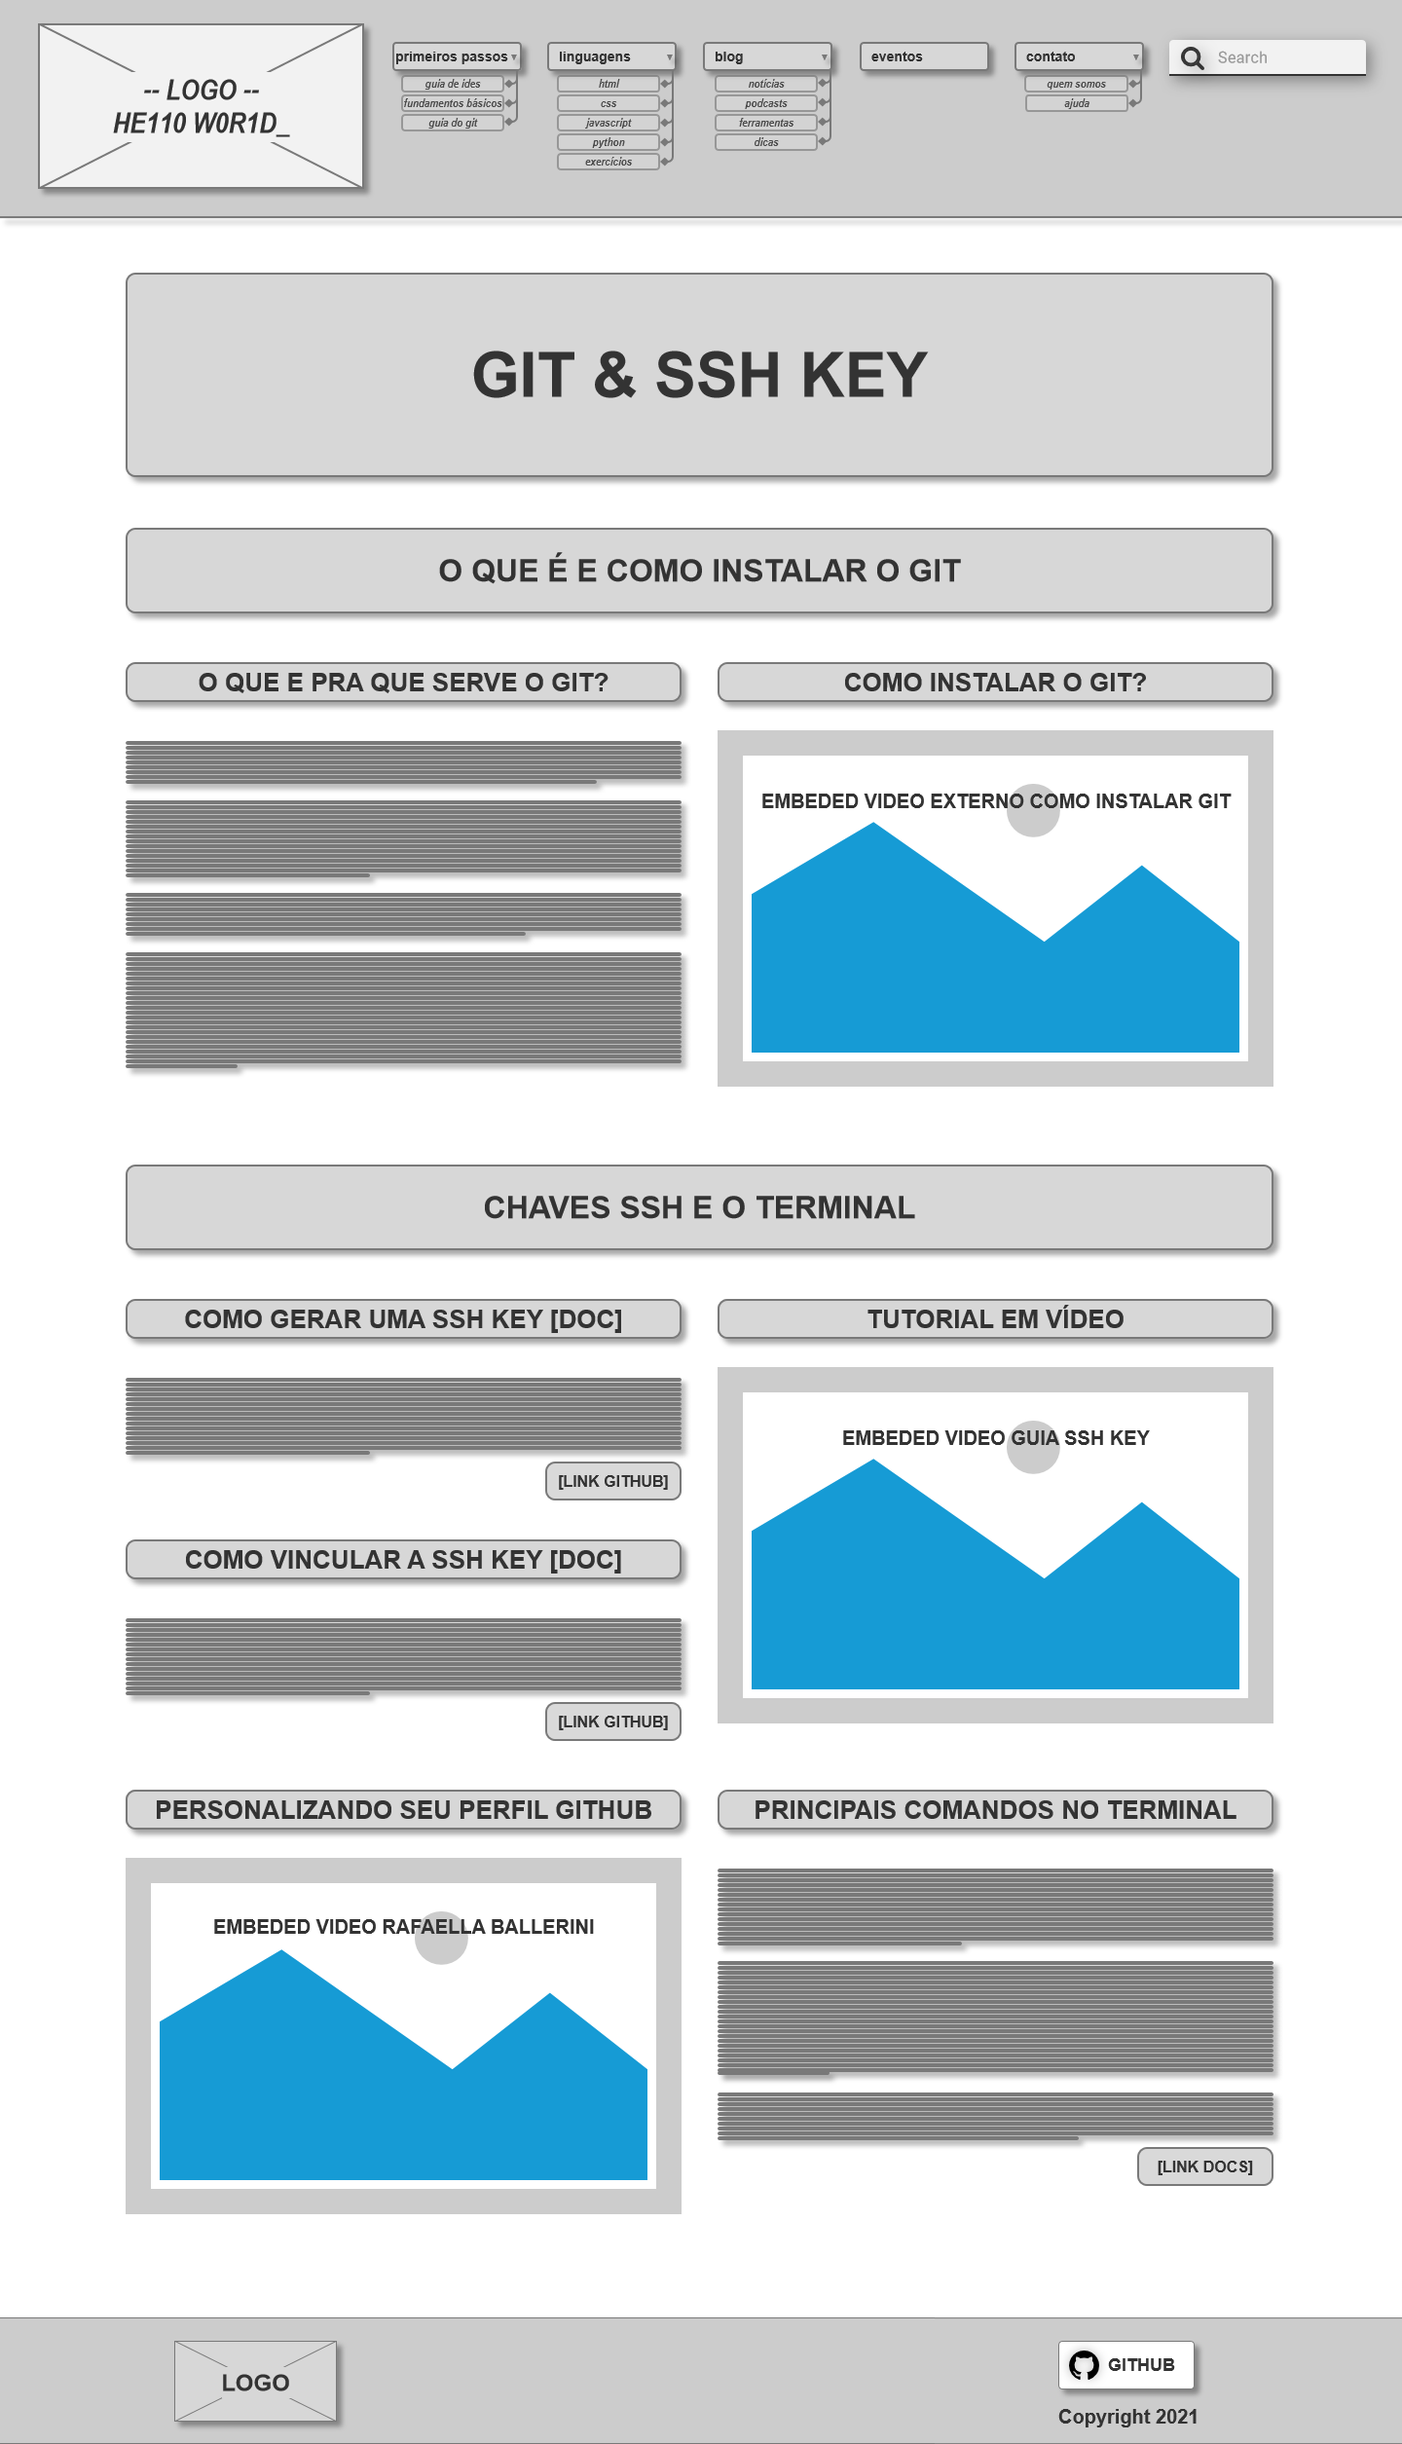
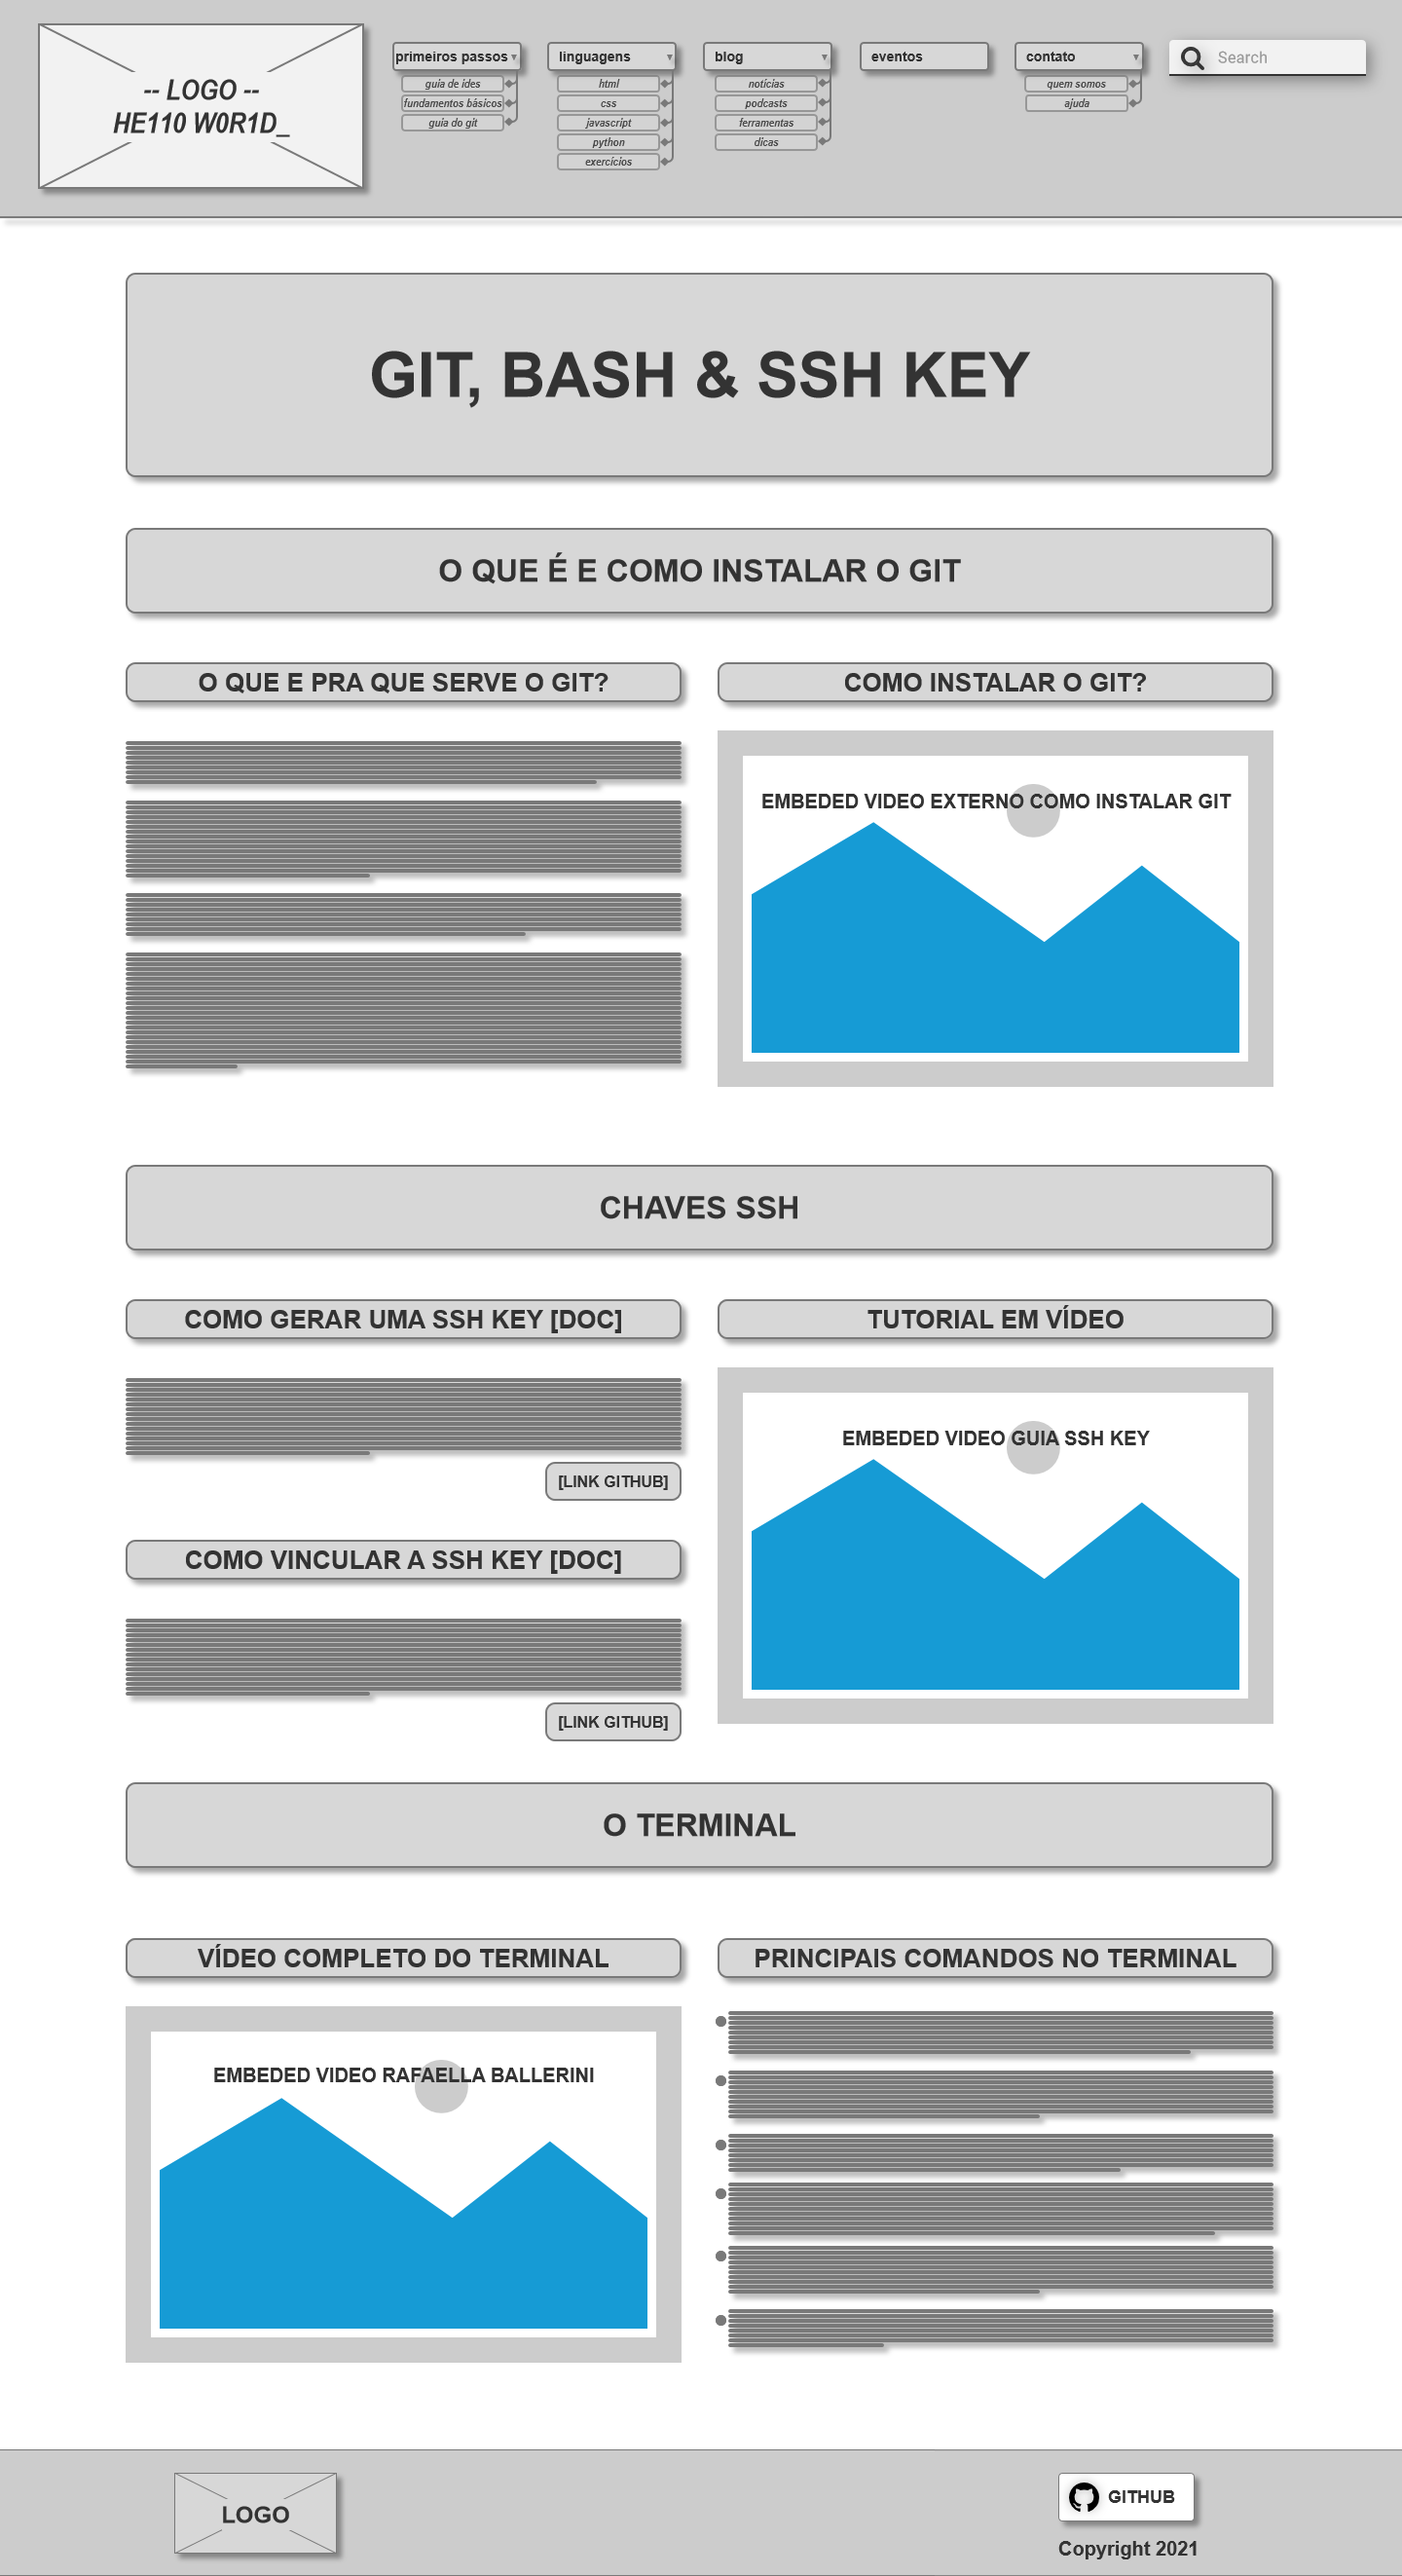
Página guia do GIT adicionada #34

diff --git a/src/guia-do-git.html b/src/guia-do-git.html
@@ -71,7 +71,7 @@
               <a class="dropdown-item"
                  href="#">Guia de IDE</a>
               <a class="dropdown-item"
-                 href="#">Guia do GIT</a>
+                 href="guia-do-git.html">Guia do GIT</a>
               <a class="dropdown-item"
                  href="#">Fundamentos Básicos</a>
             </div>
@@ -154,8 +154,100 @@
 
     <!-- Conteúdo Principal -->
     <div id="conteudo">
-      <div class="container">
 
+      <!-- Título da Página -->
+      <div class="container">
+        <div class="row">
+          <div class="col-md col-sm">
+            <h1>GIT, BASH & CHAVE SSH</h1>
+          </div>
+        </div>
+      </div>
+
+      <!-- Seção -->
+      <div class="container">
+        <div class="row">
+          <div class="col-md col-sm">
+            <h2>O que é e como instalar o git?</h2>
+          </div>
+        </div>
+        <div class="row">
+          <div class="col-md col-sm">
+            <h3>O que é e para que serve o git?</h3>
+            <p>Git é um sistema de controle de versão de arquivos. Através dele podemos desenvolver projetos na qual diversas pessoas podem contribuir simultaneamente no mesmo, editando e criando novos arquivos e permitindo que os mesmos possam existir sem o risco de suas alterações serem sobrescritas.</p>
+            <p>Se não houver um sistema de versão, imagine o caos entre duas pessoas abrindo o mesmo arquivo ao mesmo tempo. Uma das aplicações do git é justamente essa, permitir que um arquivo possa ser editado ao mesmo tempo por pessoas diferentes. Por mais complexo que isso seja, ele tenta manter tudo em ordem para evitar problemas para nós desenvolvedores.</p>
+          </div>
+          <div class="col-md col-sm"><h3>Como instalar o git?</h3>
+            <!--suppress HtmlDeprecatedAttribute -->
+            <iframe width="100%" height="315" src="https://www.youtube.com/embed/ONztz-yh4jY?controls=0" title="YouTube video player" frameborder="0" allow="accelerometer; autoplay; clipboard-write; encrypted-media; gyroscope; picture-in-picture" allowfullscreen></iframe>
+          </div>
+        </div>
+      </div>
+
+      <!--Seção -->
+      <div class="container mt">
+        <div class="row">
+          <div class="col-md col-sm">
+            <h2>Chaves SSH</h2>
+          </div>
+        </div>
+        <div class="row">
+          <div class="col-md sm">
+            <div class="row">
+              <div class="col-md col-sm">
+                <h3>Como gerar uma chave SSH:</h3>
+                <p>Para crair suas chaves SSH é necessário alguns simples comandos no terminal do git bash que você pode encontrar no guia do próprio github abaixo. Temos o link para o guia do github explicando tudo para você:</p>
+                <button onclick="location.href='https://docs.github.com/pt/authentication/connecting-to-github-with-ssh/generating-a-new-ssh-key-and-adding-it-to-the-ssh-agent'"
+                        class="btn-link btn btn-outline-dark"
+                        type="button"
+                        name="botao externo">LINK GITHUB</button>
+              </div>
+            </div>
+            <div class="row">
+            <div class="col-md col-sm">
+              <h3>Como vincular sua chave SSH:</h3>
+              <p>Depois de ter criado sua chave, basta vincular a sua conta do github para que começa a usar pelo terminal. Basta seguir as imagens no guia do github pelo link abaixo.</p>
+              <button onclick="location.href='https://docs.github.com/pt/authentication/connecting-to-github-with-ssh/adding-a-new-ssh-key-to-your-github-account'"
+                      class="btn-link btn btn-outline-dark"
+                      type="button"
+                      name="botao externo">LINK GITHUB</button>
+              </div>
+           </div>
+            </div>
+          <div class="col-md col-sm">
+            <h3>Tutorial em Vídeo</h3>
+            <!--suppress HtmlDeprecatedAttribute -->
+            <iframe width="100%" height="315" src="https://www.youtube.com/embed/7YVQLZp1jb0?controls=0" title="YouTube video player" frameborder="0" allow="accelerometer; autoplay; clipboard-write; encrypted-media; gyroscope; picture-in-picture" allowfullscreen></iframe>
+          </div>
+        </div>
+
+      </div>
+
+      <!--Seção -->
+      <div class="container mt">
+        <div class="row">
+          <div class="col-md col-sm">
+            <h2>Terminal do git bash</h2>
+          </div>
+        </div>
+        <div class="row">
+          <div class="col-md col-sm">
+            <h3>Vídeo completo sobre o bash</h3>
+            <!--suppress HtmlDeprecatedAttribute -->
+            <iframe width="560" height="315" src="https://www.youtube.com/embed/E28J23gCBIs?controls=0" title="YouTube video player" frameborder="0" allow="accelerometer; autoplay; clipboard-write; encrypted-media; gyroscope; picture-in-picture" allowfullscreen></iframe>
+          </div>
+          <div class="col-md sm">
+            <h3>Principais comandos no git bash</h3>
+            <p>Esses comandos serão brevemente mencionados mas para aprofundar no assunto, recomendo uma lida no site do <a href="https://www.codigofonte.com.br/artigos/top-25-comandos-do-git">Código fonte</a>. O símbolo $ indica que é um comando de terminal.</p>
+            <ul>
+              <li><span class="negrito accent">$ git init ou $ git clone:</span><br>» inicia ou faz download de um repositório.</li>
+              <li><span class="negrito accent">$ git fetch & $ git pull:</span><br>» atualiza as  novas modificações feitas no repositório.</li>
+              <li><span class="negrito accent">$ git add [nome_do_arquivo]:</span><br>» prepara um arquivo para o commit.</li>
+              <li><span class="negrito accent">$ git commit -m "titulo_do_commit":</span><br>» prepara o commit para ser enviado.</li>
+              <li><span class="negrito accent">$ git push:</span><br>» faz o envio dos seus commits.</li>
+            </ul>
+          </div>
+        </div>
       </div>
     </div>
   </main>

diff --git a/src/css/style.css b/src/css/style.css
@@ -82,16 +82,53 @@ h2 {
   text-align: center;
   margin-bottom: 2rem;
   font-size: 2.125rem;
+  background-color: #212B2B;
+  padding: 0.6rem;
+  border-radius: 0.4rem;
 }
 
 /*titulo da postagem*/
 h3 {
   color: #fff;
-  font-weight: bold;
   text-align: center;
   margin: 1rem;
+  font-weight: bold;
 }
+/* ----------- conteúdo ----------- */
 
+/*margem bottom*/
+.mb {
+  margin-bottom: 2rem;
+}
+/*margem top*/
+.mt {
+  margin-top: 2rem;
+}
+/*botoa link externo*/
+.btn-link{
+  border-color: #73C990;
+  float:right;
+  color: #73C990;
+  font-weight: bold;
+}
+.btn-link:hover, a:hover{
+  text-decoration: none;
+}
+/*classes de decoração*/
+.negrito{
+  font-weight: bold;
+}
+.accent, a {
+  color: #73C990;
+}
+/*tamanho do vídeo de seção*/
+iframe{
+  width: 100% !important;
+  height: 315px !important;
+}
+p {
+  text-align: justify;
+}
 /* ----------- rodapé ----------- */
 
 /*botão github footer*/
